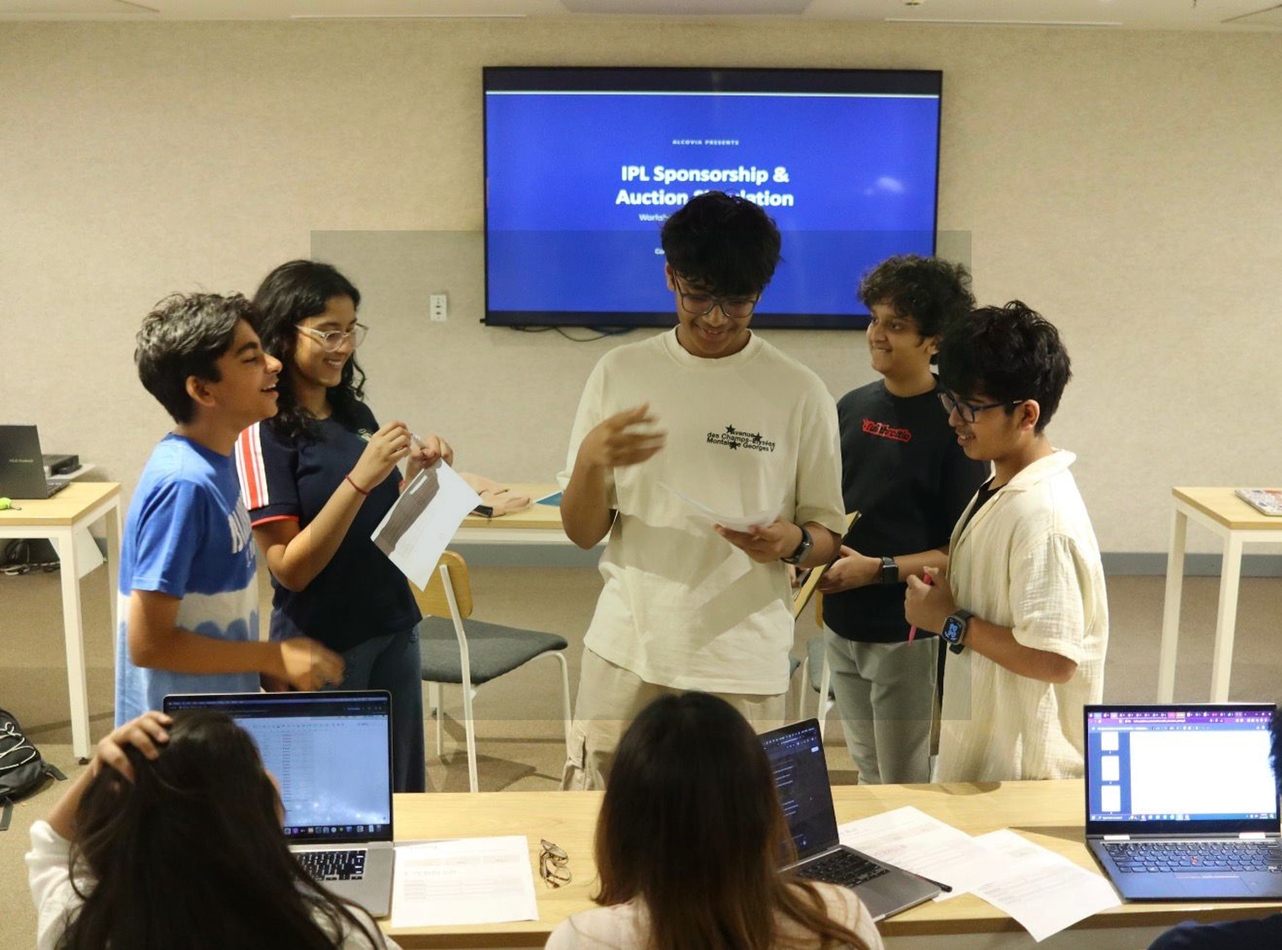
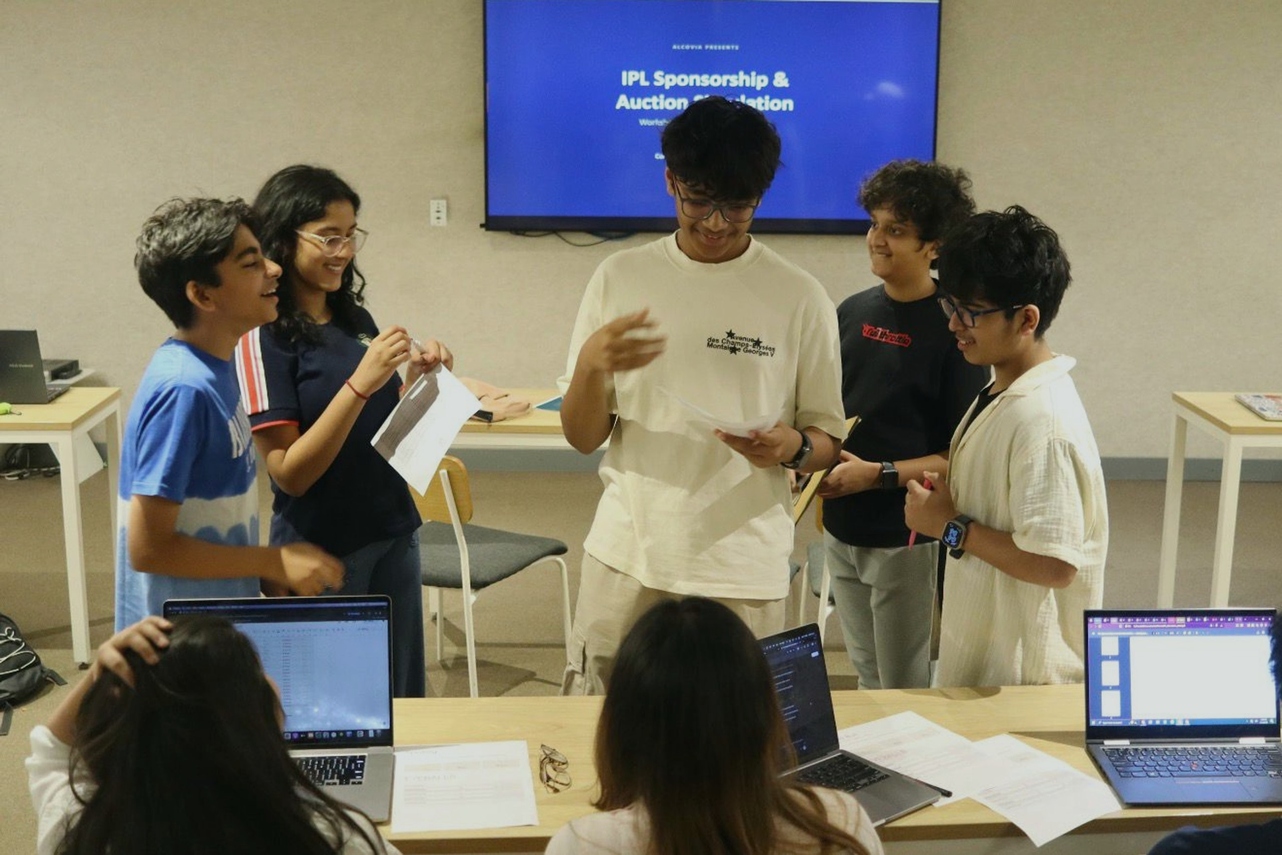
Crop watermarks, darken hero overlay, fix transformation card labels
- Crop top 10% of watermarked images to remove Alcovia logo overlay
- Increase hero overlay opacity from 0.55-0.8 to 0.72-0.88 for text readability
- Add solid 50% dark overlay on transformation card images
- Add dark background + backdrop blur to gold label pills for visibility

diff --git a/app/lp/page.tsx b/app/lp/page.tsx
@@ -68,7 +68,7 @@ function HeroSection() {
   const ref = useRef<HTMLDivElement>(null)
   const { scrollYProgress } = useScroll({ target: ref, offset: ["start start", "end start"] })
   const imageScale = useTransform(scrollYProgress, [0, 1], [1, 1.15])
-  const overlayOpacity = useTransform(scrollYProgress, [0, 0.5], [0.55, 0.8])
+  const overlayOpacity = useTransform(scrollYProgress, [0, 0.5], [0.72, 0.88])
   const contentY = useTransform(scrollYProgress, [0, 1], [0, 80])
 
   return (
@@ -255,9 +255,9 @@ function TransformationSection() {
               <div className="group relative bg-white/5 border border-white/10 rounded-xl overflow-hidden hover:border-[#EABF36]/30 transition-all duration-500">
                 <div className="relative aspect-[4/3] overflow-hidden">
                   <Image src={t.image} alt={t.title} fill className="object-cover transition-transform duration-700 group-hover:scale-105" sizes="(max-width: 768px) 100vw, 33vw" loading="lazy" />
-                  <div className="absolute inset-0 bg-gradient-to-t from-[#061f18] via-[#061f18]/40 to-[#061f18]/30" />
+                  <div className="absolute inset-0 bg-[#061f18]/50" />
                   <div className="absolute top-3 left-3">
-                    <span className="text-[10px] uppercase tracking-[0.2em] px-3 py-1 rounded-full border" style={{ color: GOLD, borderColor: `${GOLD}40` }}>
+                    <span className="text-[10px] uppercase tracking-[0.2em] px-3 py-1 rounded-full border bg-[#061f18]/70 backdrop-blur-sm" style={{ color: GOLD, borderColor: `${GOLD}40` }}>
                       {t.label}
                     </span>
                   </div>
